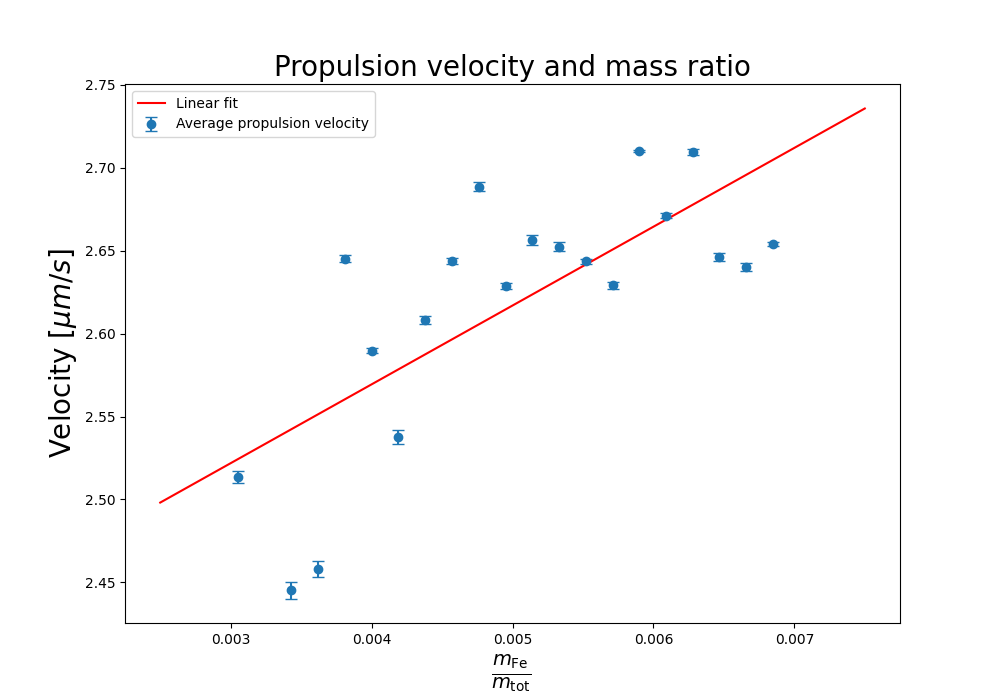
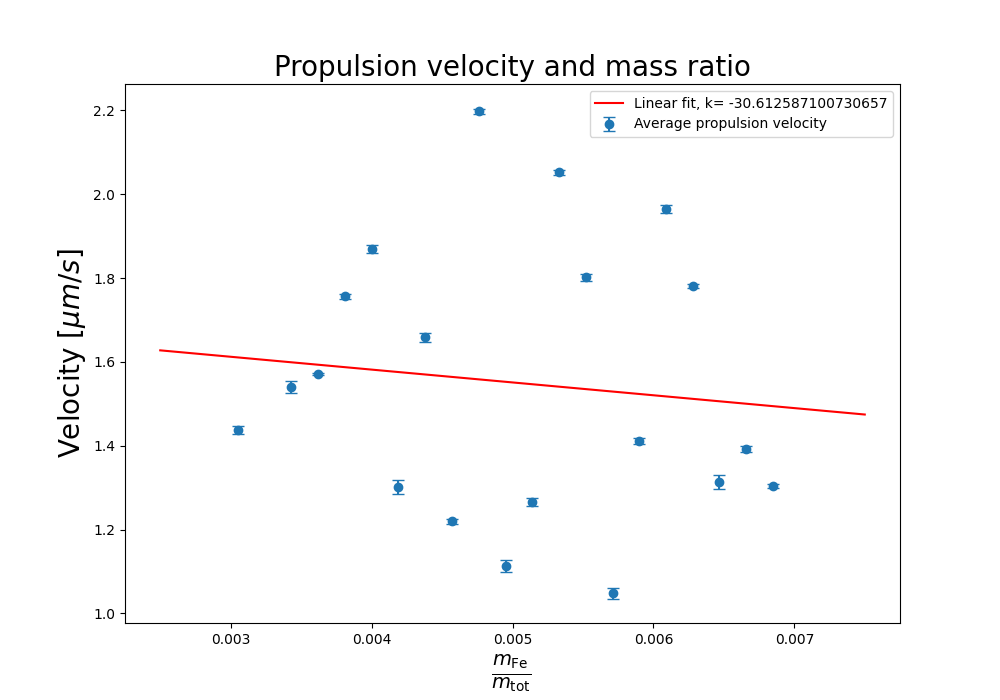
plotting

diff --git a/thermophoresis/data_analysis.py b/thermophoresis/data_analysis.py
@@ -82,7 +82,10 @@ deposit_number = [400,450,475,500,
 				 725,750,775,800,
 				 825,850,875,900]
 velocities = [2.5136975781808886,  2.445356601463794, 2.458232955184125, 2.6451380562640336, 2.5895883544878666, 2.5376388553024527, 2.608278273190855, 2.643675850756448, 2.688509986448934, 2.6289077882257215, 2.65648510051654, 2.6523037538104965, 2.6434481993678656, 2.629211197357292, 2.709985560952113, 2.6711007696359226, 2.709485467448876, 2.6461686214498408, 2.6399559411670475, 2.6539831410935033]
-errors = [0.003522033740621655, 0.00503520513172484, 0.0047583371822637055, 0.0020076924404301977, 0.001535248075055673, 0.004039533263003214, 0.002492088170126916, 0.0017590080899712035, 0.0025657399853122875, 0.0017927395056758222, 0.003051272116764814, 0.0028058747329615663, 0.001734106070752972, 0.0020798171825058276, 0.0008566913994085823, 0.0016801771113872377, 0.0020286020405806404, 0.00218555576099444, 0.0024901912394086345, 0.0010347779173649485]
+velocities = [1.4372579662361544,  1.5405952070508544, 1.5704735499707936, 1.756237286631951, 1.868597832306805, 1.3016106800300504, 1.6584314347290847, 1.2199194398675723, 2.1978676522351686, 1.113195449067723, 1.2668201901833174, 2.0522164413705535, 1.8018507971120985, 1.0487169082429464, 1.4106794238208469, 1.9648966070001548, 1.7809671553103275, 1.314269822023115, 1.3913627518311138, 1.3038345247512517]
+errors     = [0.003522033740621655, 0.00503520513172484, 0.0047583371822637055, 0.0020076924404301977, 0.001535248075055673, 0.004039533263003214, 0.002492088170126916, 0.0017590080899712035, 0.0025657399853122875, 0.0017927395056758222, 0.003051272116764814, 0.0028058747329615663, 0.001734106070752972, 0.0020798171825058276, 0.0008566913994085823, 0.0016801771113872377, 0.0020286020405806404, 0.00218555576099444, 0.0024901912394086345, 0.0010347779173649485]
+errors     = [0.008911047246597636, 0.014675998280480274, 0.0021976301775115115, 0.005650104897457098, 0.009265442420447245, 0.016758057205625176, 0.010648465697403298, 0.006040875405314283, 0.00661019221474568, 0.014477062088285253, 0.009529160392867775, 0.0060108855209364265, 0.008944995425969715, 0.013021525002279155, 0.0073313673925996525, 0.009135094128195353, 0.004582741971437931, 0.016920403945731355, 0.006932246628591265, 0.00564976524541505]
+
 #Perform parameter sweep over laser periodicities
 tic = time.time()
 #for i in range(len(deposits)):
@@ -125,8 +128,8 @@ toc = time.time()
 os.chdir("..")
 os.chdir("figures")
 fig, ax = plt.subplots(figsize=(10, 7))
-ax.errorbar(mass_ratios,velocities,errors,capsize=4,fmt='o',label="Average propulsion velocity")
-ax.plot(x_new,y_pred,'r-',label=f"Linear fit")
+ax.errorbar(mass_ratios,velocities, errors,capsize=4,fmt='o',label="Average propulsion velocity")
+ax.plot(x_new,y_pred,'r-',label=f"Linear fit, k= {slope}")
 ax.set_ylabel(r"Velocity [$\mu m /s $]",fontsize=20)
 ax.set_xlabel(r"$\frac{m_{\rm Fe}}{m_{\rm tot}}$ ",fontsize=20)
 ax.set_title("Propulsion velocity and mass ratio",fontsize=20)
